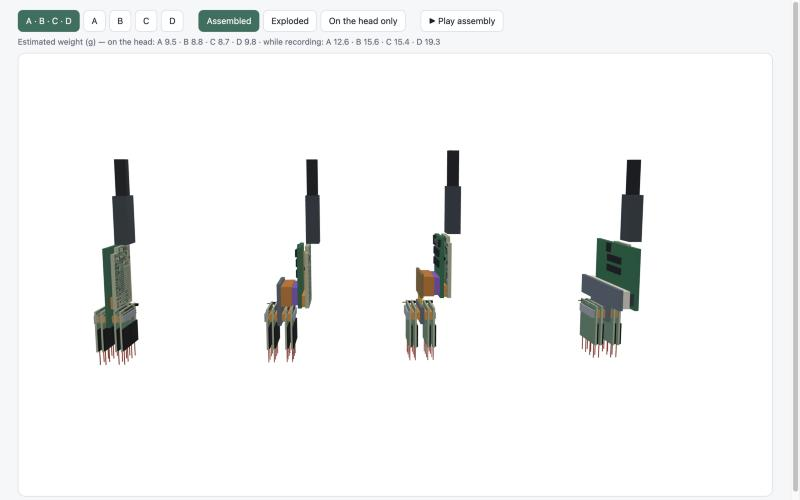
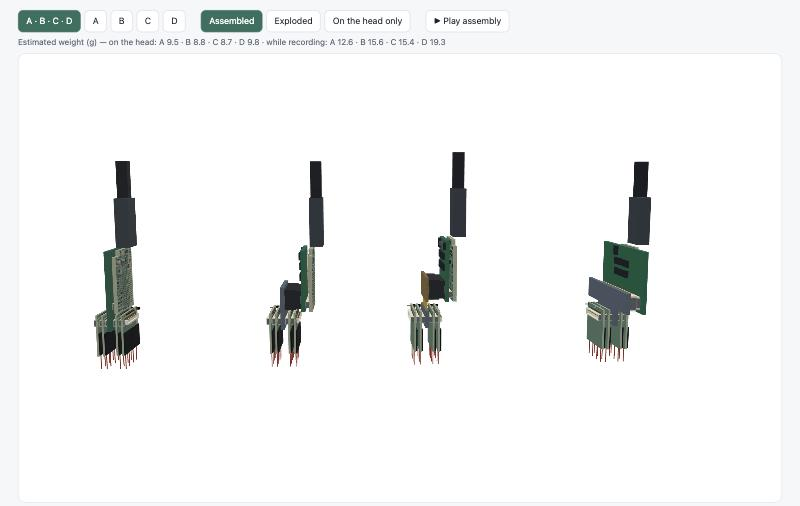
FPGA-LDO stack options V18: drawn connectors instead of blocks
Hirose DF40, Samtec SEAF8/SEAM8 and Hirose FX10 are drawn in the page from
catalogue dimensions (housing, every contact at its pitch, tails, fittings),
using the manufacturer models' outlines. Vendor 3D files stay local only.

diff --git a/presentation/overview/fpga-ldo-options/index.html b/presentation/overview/fpga-ldo-options/index.html
@@ -29,12 +29,13 @@ button.on{background:var(--acc);border-color:var(--acc);color:#fff}
 <div class="wrap" id="wrap"><div id="view"></div><aside id="info"></aside></div>
 </main>
 <script type="module">
-// FPGA-LDO stack options A-D, V17 (6 Nov 2026). Boards: PCB-5 (0.8 mm) and Artix Frontend V37 exported from KiCad as GLB.
-// Connectors: Hirose DF40 and Samtec SEAF8/SEAM8 manufacturer STEP models tessellated by KiCad when VENDOR is true,
-// otherwise boxes at data-sheet size. FX10 (option D) is always a box. Frame: X width, Y thickness, Z distance from probe edge (mm).
+// FPGA-LDO stack options A-D, V18 (6 Nov 2026). Boards: PCB-5 (0.8 mm) and Artix Frontend V37 exported from KiCad as GLB.
+// Connectors: drawn here from the catalogue dimensions (housing, every contact at its pitch, tails, fittings), placed with
+// the same outline as the manufacturer models. VENDOR = true (local copy) swaps in Hirose/Samtec STEP models tessellated by KiCad. Frame: X width, Y thickness, Z distance from probe edge (mm).
 import * as THREE from 'three';
 import { OrbitControls } from 'three/addons/controls/OrbitControls.js';
 import { GLTFLoader } from 'three/addons/loaders/GLTFLoader.js';
+import { mergeGeometries } from 'three/addons/utils/BufferGeometryUtils.js';
 const view = document.getElementById('view');
 const scene = new THREE.Scene(); scene.background = new THREE.Color(0xffffff);
 const camera = new THREE.PerspectiveCamera(32, 1, 0.1, 4000);
@@ -52,6 +53,98 @@ const C = { hub: 0x5f6b78, flex: 0xd4a017, stiff: 0x8d6e3f, plug: 0x8a5cc2, sock
 const mats = {}; const mat = (c, o) => { const k = c + JSON.stringify(o || {}); return mats[k] || (mats[k] = new THREE.MeshStandardMaterial(Object.assign({ color: c, roughness: 0.6, metalness: 0.05 }, o || {}))); };
 function box(g, x0, x1, y0, y1, z0, z1, m) { const b = new THREE.Mesh(new THREE.BoxGeometry(x1 - x0, y1 - y0, z1 - z0), m); b.position.set((x0 + x1) / 2, (y0 + y1) / 2, (z0 + z1) / 2); g.add(b); }
 const CONN = {};
+// ---- drawn connector models: one merged mesh per material ----
+const CM = { gold: new THREE.MeshStandardMaterial({ color: 0xd9ad4a, metalness: 0.75, roughness: 0.3 }),
+  tin: new THREE.MeshStandardMaterial({ color: 0xbfc3c8, metalness: 0.75, roughness: 0.35 }),
+  ivory: new THREE.MeshStandardMaterial({ color: 0xebe4d1, roughness: 0.6 }),
+  black: new THREE.MeshStandardMaterial({ color: 0x2c2d31, roughness: 0.55 }) };
+function Part() {
+  const P = {};
+  return {
+    b(m, x0, x1, y0, y1, z0, z1) {
+      const [a0, a1] = [Math.min(x0, x1), Math.max(x0, x1)], [b0, b1] = [Math.min(y0, y1), Math.max(y0, y1)], [c0, c1] = [Math.min(z0, z1), Math.max(z0, z1)];
+      const g = new THREE.BoxGeometry(a1 - a0, b1 - b0, c1 - c0); g.translate((a0 + a1) / 2, (b0 + b1) / 2, (c0 + c1) / 2); (P[m] = P[m] || []).push(g);
+    },
+    done(g) { const G = g || new THREE.Group(); for (const m in P) G.add(new THREE.Mesh(mergeGeometries(P[m]), CM[m])); return G; } };
+}
+// Hirose DF40 (0.4 mm pitch, 1.5 mm mated), model frame as Hirose's STEP: X width, Y length, board face at z = 0, body toward -Z.
+// Receptacle DF40C-nnDS: 1.4 mm tall, outline 3.38 x (span + 3.0) mm; frame with a central contact island.
+function df40S(n) {
+  const p = Part(), k = n / 2, sp = (k - 1) * 0.4, L = sp + 3.0, Lh = L - 0.8, H = 1.4;
+  p.b('ivory', -1.35, 1.35, -Lh / 2, Lh / 2, -0.3, 0);                                         // floor
+  for (const s of [-1, 1]) {
+    p.b('ivory', s * 1.05, s * 1.35, -Lh / 2, Lh / 2, -H, -0.3);                              // side walls
+    p.b('ivory', -1.05, 1.05, s * (Lh / 2 - 0.45), s * Lh / 2, -H, -0.3);                     // end walls
+    p.b('tin', -1.15, 1.15, s * Lh / 2, s * L / 2, -1.2, 0.05);                                // metal fittings
+  }
+  p.b('ivory', -0.35, 0.35, -sp / 2 - 0.4, sp / 2 + 0.4, -1.05, -0.3);                        // contact island
+  for (let i = 0; i < k; i++) { const y = -sp / 2 + i * 0.4; for (const s of [-1, 1]) {
+    p.b('gold', s * 0.35, s * 0.39, y - 0.09, y + 0.09, -1.0, -0.35);                         // contact on the island
+    p.b('gold', s * 1.35, s * 1.69, y - 0.09, y + 0.09, -0.08, 0.05); } }                     // SMT tail
+  return p.done();
+}
+// Header DF40C-nnDP: 1.14 mm tall incl. tails, outline 2.97 x (span + 1.92) mm; its walls enter the receptacle frame.
+function df40P(n) {
+  const p = Part(), k = n / 2, sp = (k - 1) * 0.4, L = sp + 1.92, Lh = sp + 1.2;
+  for (const s of [-1, 1]) {
+    p.b('ivory', s * 0.42, s * 1.0, -Lh / 2, Lh / 2, -1.14, -0.1);                            // contact walls
+    p.b('ivory', -0.42, 0.42, s * (Lh / 2 - 0.15), s * Lh / 2, -1.14, -0.1);                  // end walls
+    p.b('tin', -0.9, 0.9, s * Lh / 2, s * L / 2, -0.12, 0);                                    // metal fittings
+  }
+  p.b('ivory', -0.42, 0.42, -Lh / 2, Lh / 2, -0.4, -0.1);                                     // web over the groove
+  for (let i = 0; i < k; i++) { const y = -sp / 2 + i * 0.4; for (const s of [-1, 1]) {
+    p.b('gold', s * 1.0, s * 1.04, y - 0.09, y + 0.09, -1.0, -0.3);
+    p.b('gold', s * 1.0, s * 1.485, y - 0.09, y + 0.09, -0.1, 0); } }
+  return p.done();
+}
+// Samtec SEARAY 8 x 20, 0.8 mm pitch, 7.0 mm mated. Model frame as Samtec's STEP: X length, Y width (centre 1.595).
+// SEAF8-20-05.0-S-08-3 socket: board face z = 0.57, body to z = -4.0; 160 contact openings on the mating face.
+const SR = (f) => { for (let i = 0; i < 20; i++) for (let j = 0; j < 8; j++) f((i - 9.5) * 0.8, 1.595 + (j - 3.5) * 0.8); };
+function seaf8() {
+  const p = Part(), cy = 1.595;
+  p.b('black', -10.4, 10.4, cy - 4.15, cy + 4.15, -4.0, 0.45);
+  SR((x, y) => { p.b('gold', x - 0.17, x + 0.17, y - 0.17, y + 0.17, -4.03, -3.99); p.b('tin', x - 0.2, x + 0.2, y - 0.2, y + 0.2, 0.45, 0.57); });
+  for (const s of [-1, 1]) p.b('tin', s * 10.4, s * 10.92, cy - 1.6, cy + 1.6, 0.2, 0.57);   // weld tabs
+  return p.done();
+}
+// SEAM8-20-S02.0-S-08-3 terminal: board face z = -0.95, housing 2.43 mm, 160 pins to z = 3.6 (4.55 mm above the board).
+function seam8() {
+  const p = Part(), cy = 1.595;
+  p.b('black', -10.4, 10.4, cy - 3.7, cy + 3.7, -0.83, 1.48);
+  SR((x, y) => { p.b('gold', x - 0.1, x + 0.1, y - 0.1, y + 0.1, 1.48, 3.6); p.b('tin', x - 0.2, x + 0.2, y - 0.2, y + 0.2, -0.95, -0.83); });
+  for (const s of [-1, 1]) p.b('tin', s * 10.4, s * 10.92, cy - 1.6, cy + 1.6, -0.95, -0.6);
+  return p.done();
+}
+// Hirose FX10A-140 (0.5 mm pitch, 70 per row), drawn in the stack frame: long axis X, centre (0, cz), board face at y.
+// Receptacle FX10A-140S/14-SV(71): 49.1 x 7.3 x 3.2 mm with ground plates; header FX10A-140P/14-SV1(91) enters it.
+function fx10S(g, y, cz) {
+  const p = Part(), sp = 69 * 0.5;
+  p.b('ivory', -23.6, 23.6, y, y + 0.5, cz - 3.15, cz + 3.15);
+  for (const s of [-1, 1]) {
+    p.b('ivory', -23.6, 23.6, y + 0.5, y + 3.2, cz + s * 2.65, cz + s * 3.15);
+    p.b('ivory', s * 23.1, s * 23.6, y + 0.5, y + 3.2, cz - 2.65, cz + 2.65);
+    p.b('tin', -sp / 2 - 1, sp / 2 + 1, y + 0.6, y + 3.0, cz + s * 3.15, cz + s * 3.22);       // ground plate
+    p.b('tin', s * 23.6, s * 24.55, y, y + 2.8, cz - 2.5, cz + 2.5);                           // fittings
+  }
+  p.b('ivory', -sp / 2 - 0.6, sp / 2 + 0.6, y + 0.5, y + 2.9, cz - 0.9, cz + 0.9);
+  for (let i = 0; i < 70; i++) { const x = -sp / 2 + i * 0.5; for (const s of [-1, 1]) {
+    p.b('gold', x - 0.1, x + 0.1, y + 1.0, y + 2.7, cz + s * 0.9, cz + s * 0.94);
+    p.b('gold', x - 0.1, x + 0.1, y, y + 0.1, cz + s * 3.22, cz + s * 3.65); } }
+  p.done(g);
+}
+function fx10P(g, y, cz) {
+  const p = Part(), sp = 69 * 0.5;
+  for (const s of [-1, 1]) {
+    p.b('ivory', -22.9, 22.9, y - 2.6, y - 0.1, cz + s * 0.95, cz + s * 2.6);
+    p.b('ivory', s * 22.4, s * 22.9, y - 2.6, y - 0.1, cz - 0.95, cz + 0.95);
+    p.b('tin', s * 22.9, s * 23.3, y - 2.0, y, cz - 2.0, cz + 2.0);
+  }
+  p.b('ivory', -22.9, 22.9, y - 0.9, y - 0.1, cz - 0.95, cz + 0.95);
+  for (let i = 0; i < 70; i++) { const x = -sp / 2 + i * 0.5; for (const s of [-1, 1]) {
+    p.b('gold', x - 0.1, x + 0.1, y - 2.4, y - 0.6, cz + s * 2.6, cz + s * 2.64);
+    p.b('gold', x - 0.1, x + 0.1, y - 0.1, y, cz + s * 2.6, cz + s * 3.1); } }
+  p.done(g);
+}
 const AX = { x: new THREE.Vector3(1, 0, 0), y: new THREE.Vector3(0, 1, 0), z: new THREE.Vector3(0, 0, 1) };
 // part on a board face: n = face normal axis, face = its coordinate, s = +1 body grows toward +n, -1 toward -n;
 // long = axis of the connector's long side; c = centre on the two in-plane axes
@@ -182,9 +275,9 @@ function buildD() {
   const L0 = LB + 0.5, LC = L0 + 4.25, hub = grp(o, 'hub');
   box(hub, -11.32, 11.32, 0, 1.6, HUB0, L0, mat(C.hub)); box(hub, -25.5, 25.5, 0, 1.6, L0, L0 + 8.5, mat(C.hub));
   dfPlug(hub, 1.6, true); dfSock(hub, 0, true);
-  box(hub, -24.55, 24.55, 1.6, 4.8, LC - 3.65, LC + 3.65, mat(0xd9d4c4));                  // FX10 receptacle
+  fx10S(hub, 1.6, LC);                                                                       // FX10 receptacle
   const y0 = 1.6 + 5.0, y1 = y0 + 1.6, hat = grp(o, 'hat');
-  box(hat, -24.0, 24.0, y0 - 2.6, y0, LC - 2.6, LC + 2.6, mat(0x3a3d42));                   // FX10 header (inside receptacle)
+  fx10P(hat, y0, LC);                                                                        // FX10 header (enters the receptacle)
   box(hat, -25.5, 25.5, y0, y1, L0, L0 + 25.47, mat(C.ldo));
   for (const x of [-7, -2.5, 2, 6.5]) for (const z of [L0 + 14, L0 + 18.5]) box(hat, x - 1.5, x + 1.5, y0 - 0.75, y0, z - 1.5, z + 1.5, mat(C.reg));
   box(hat, -9.5, -5.5, y0 - 0.9, y0, L0 + 21, L0 + 25, mat(C.reg));
@@ -312,13 +405,14 @@ document.querySelectorAll('[data-o]').forEach(b => b.onclick = () => { cur = b.d
 document.querySelectorAll('[data-m]').forEach(b => b.onclick = () => { mode = b.dataset.m; if (playing) setPlay(false); else apply(); });
 document.getElementById('play').onclick = () => setPlay(!playing);
 const loader = new GLTFLoader();
-const VENDOR = false;   // public copy: connectors drawn as boxes at data-sheet size
+const VENDOR = false;   // public copy: connectors drawn from catalogue dimensions (manufacturer models may not be posted)
 const VENDOR_FILES = ['DF40C-80DS', 'DF40C-80DP', 'DF40C-70DS', 'DF40C-70DP', 'SEAM8-20-S02.0-S-08-3', 'SEAF8-20-05.0-S-08-3'];
 Promise.all([loader.loadAsync('models/ASIC_Board_PCB5_0p8mm.glb'), loader.loadAsync('models/Artix_Frontend_V37.glb'),
   ...(VENDOR ? VENDOR_FILES.map(n => loader.loadAsync('models/' + n + '.glb').catch(() => null)) : [])])
 .then(([a, f, ...v]) => {
   PCB5 = a.scene; PCB5.scale.setScalar(1000); FE = f.scene; FE.scale.setScalar(1000);
-  ['80DS', '80DP', '70DS', '70DP', 'SEAM8', 'SEAF8'].forEach((k, i) => { if (v[i]) { v[i].scene.scale.setScalar(1000); CONN[k] = v[i].scene; } });
+  const DRAWN = { '80DS': () => df40S(80), '80DP': () => df40P(80), '70DS': () => df40S(70), '70DP': () => df40P(70), SEAM8: seam8, SEAF8: seaf8 };
+  Object.keys(DRAWN).forEach((k, i) => { if (v[i]) { v[i].scene.scale.setScalar(1000); CONN[k] = v[i].scene; } else CONN[k] = DRAWN[k](); });
   buildA(); buildB(); buildC(); buildD(); apply();
 }).catch(e => console.error(e));
 function resize() { const w = view.clientWidth, h = view.clientHeight; renderer.setSize(w, h); camera.aspect = w / h; camera.updateProjectionMatrix(); }
